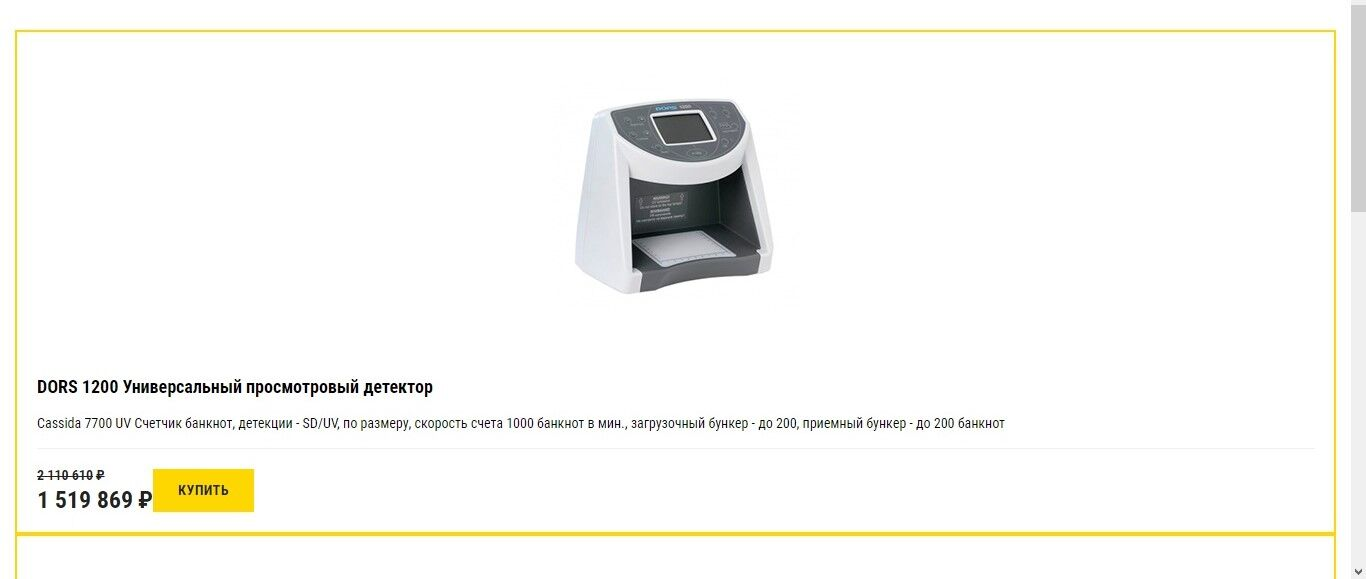
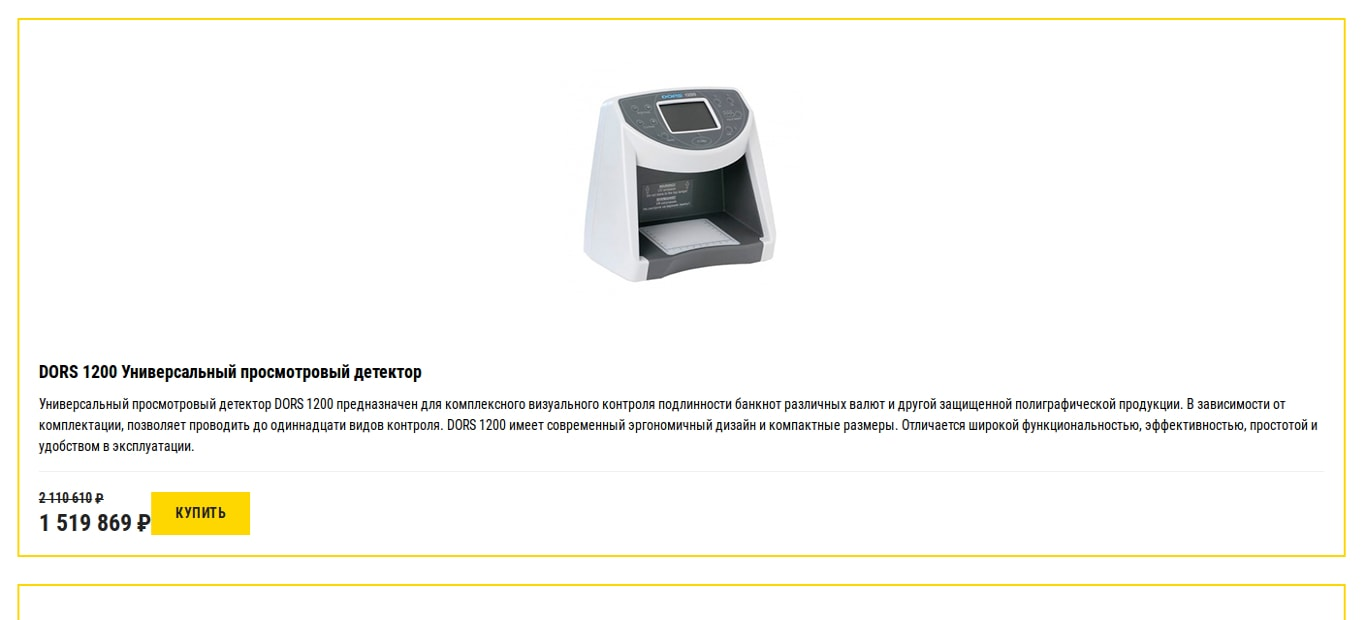
Иправлено условие задания mobile-graphic/product-cards

Changed region(s): [[0.0, 0.0, 1.0, 1.0], [0.3997, 0.1244, 0.5842, 0.5285]]

diff --git a/mobile-graphic/product-cards/index.html b/mobile-graphic/product-cards/index.html
@@ -19,7 +19,7 @@
         <div class="product__content">
           <h3 class="product__title">DORS 1200 Универсальный просмотровый детектор</h3>
           <div class="product__description">
-            <p>Cassida 7700 UV Счетчик банкнот, детекции - SD/UV, по размеру, скорость счета 1000 банкнот в мин., загрузочный бункер - до 200, приемный бункер - до 200 банкнот</p>
+            <p>Универсальный просмотровый детектор DORS 1200 предназначен для комплексного визуального контроля подлинности банкнот различных валют и другой защищенной полиграфической продукции. В зависимости от комплектации, позволяет проводить до одиннадцати видов контроля. DORS 1200 имеет современный эргономичный дизайн и компактные размеры. Отличается широкой функциональностью, эффективностью, простотой и удобством в эксплуатации.</p>
           </div>
         </div>
         <footer class="product__footer">
@@ -39,7 +39,7 @@
     </article>
   <article class="product">
       <div class="product__imgbox">
-        <img class="product__img" src="img/product1.jpg" alt="Превью товара">
+        <img class="product__img" src="img/product2.jpg" alt="Превью товара">
       </div>
       <div class="product__body">
         <div class="product__content">
@@ -71,7 +71,7 @@
         <div class="product__content">
           <h3 class="product__title">Cassida 5550 UV Счетчик банкнот эконом-класса с задней загрузкой банкнот</h3>
           <div class="product__description">
-            <p>Cassida 5550 UV Счетчик банкнот эконом-класса с задней загрузкой банкнот, детекции - УФ-детекция, звуковая индикация, скорость счета 1000 банкнот в мин.</p>
+            <p>Счетчик банкнот Cassida 5550 UV- компактный и надежный счетчик для сферы ритейла. Единственный счетчик в России класса «Эконом» полностью на русском языке и с технологией ValuCount. Большой LED-дисплей отображает все проводимые операции. Режим ручного и автоматического старта для кассира с любым опытом и скоростью работы.</p>
           </div>
         </div>
         <footer class="product__footer">
@@ -88,7 +88,59 @@
           <button class="product__button" type="button">Купить</button>
         </footer>
       </div>
-    </article>    
+    </article>
+    <article class="product">
+      <div class="product__imgbox">
+        <img class="product__img" src="img/product4.jpg" alt="Превью товара">
+      </div>
+      <div class="product__body">
+        <div class="product__content">
+          <h3 class="product__title">Детектор валют Спектр-Видео-А</h3>
+          <div class="product__description">
+            <p>Дисплей в ЖК с диагональю "4" дюйма. Проверяет купюры на подлинность по следующим признакам: инфракрасные метки, спецэлемент "И"(антистокс). LCD дисплей с регулировкой яркости экрана. Оснащен таймером отключения режима проверки антистокса ~ 60 сек. Работает от сети.</p>
+          </div>
+        </div>
+        <footer class="product__footer">
+          <div class="product__prices">
+            <span class="product__price product__price_old">
+              <span class="product__price-value">2 110 610</span>
+              <span class="product__rub">₽</span>
+            </span>
+            <span class="product__price">
+              <span class="product__price-value">1 519 869</span>
+              <span class="product__rub">₽</span>
+            </span>
+          </div>
+          <button class="product__button" type="button">Купить</button>
+        </footer>
+      </div>
+    </article>
+    <article class="product">
+      <div class="product__imgbox">
+        <img class="product__img" src="img/product5.jpg" alt="Превью товара">
+      </div>
+      <div class="product__body">
+        <div class="product__content">
+          <h3 class="product__title">Детектор валют DoCash DVM mini "Антистокс"</h3>
+          <div class="product__description">
+            <p>Компактный инфракрасный просмотровой детектор с большим ЖК дисплеем 4,3"для экспресс-определения подлинности банкнот и ценных бумаг. Проверяет купюры по следующим признакам: ИК, Спецэлмент "М", Спецэлмент "И" (антистокс)</p>
+          </div>
+        </div>
+        <footer class="product__footer">
+          <div class="product__prices">
+            <span class="product__price product__price_old">
+              <span class="product__price-value">2 110 610</span>
+              <span class="product__rub">₽</span>
+            </span>
+            <span class="product__price">
+              <span class="product__price-value">1 519 869</span>
+              <span class="product__rub">₽</span>
+            </span>
+          </div>
+          <button class="product__button" type="button">Купить</button>
+        </footer>
+      </div>
+    </article>
   </div>
 </body>
 </html>

diff --git a/mobile-graphic/product-cards/README.md b/mobile-graphic/product-cards/README.md
@@ -16,13 +16,13 @@
 
 ## Процесс реализации
 
-1. Для устройств с шириной экрана от `769px` расположите карточки товара в ряд, используя flexbox. Ширина каждой карточки должна быть `32%`. Карточки должны быть прижаты к верхнему краю родительского блока.
+1. Для устройств с шириной экрана от `769px` расположите карточки товара в ряд, используя flexbox. Ширина каждой карточки должна быть `32%`. Карточки не должны растягиваться по высоте, а должны быть прижаты к верхней границе родителя.
 
 2. Для устройств с шириной экрана от `769px` у второй, пятой, восьмой, одиннадцатой карточки и т.д. (то есть, у каждой третьей карточки, начиная с карточки номер 2) задайте недостающие отступы слева и справа.
  
 3. Сделайте так, чтобы блок с ценой и кнопка «Купить» располагались по краям элемента с классом `product__footer`. 
 
-4. Сделайте так, чтобы блок с ценой и кнопка «Купить» позиционировались по нижней границе элемента с классом `product__footer`.
+4. Сделайте так, чтобы блок с ценой и кнопка «Купить» были прижаты к нижней границе элемента с классом `product__footer`.
 
 ## Реализация
 
